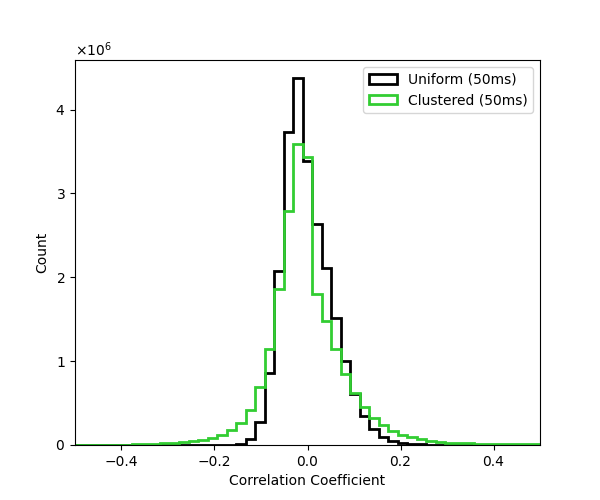
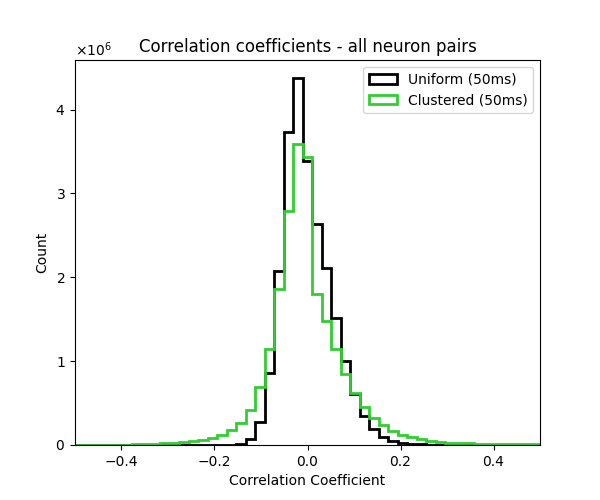
Updates from Overleaf

Changed region(s): [[0.24, 0.06, 0.81, 0.12]]

diff --git a/report/sections/discussion.tex b/report/sections/discussion.tex
@@ -4,4 +4,24 @@
 \section{Discussion}
 \label{sec:discussion}
 
-TODO
+The main goal of this project was to reproduce the paper by  Litwin-Kumar and Doiron (2012) \textcolor{red}{(add reference)}. Through replicating their results, we got our first experience in building a computational experimental model while working as a team. We acquired the key skills in doing neural network simulations using Brian2 and in converting the technical descriptions found in the original paper into actual code. In this process we also had to convert some key equations to a format more applicable to the Brian2 framework, since the paper Litwin-Kumar and Doiron (2012) \textcolor{red}{(add reference)} did not use Python.
+
+To understand how successful our replication of the original paper was, Figure~\ref{fig:our_results} and Figure~\ref{fig:original_results} give us a comprehensive comparison between our work and the paper.
+
+\begin{figure}[!htbp]
+    \centering
+    \includegraphics[width=\columnwidth]{report/figures/our_results.png}
+    \caption{The graphs combined together from our statistical analysis.}
+    \label{fig:our_results}
+\end{figure}
+
+\begin{figure}[!htbp]
+    \centering
+    \includegraphics[width=\columnwidth]{report/figures/original_results.jpg}
+    \caption{Statistical analysis results from the original paper \textcolor{red}{(add reference).}}
+    \label{fig:original_results}
+\end{figure}
+
+From this comparison, we see that most of the statistical analyses are very similar. The most fundamental difference is between Figure~\ref{fig:our_results} \textbf{(d)} and Figure~\ref{fig:original_results} \textbf{(d)}. From our experiment, the correlation coefficient figure displays a long heavy tail, with a significant bump around the 0.8 mark, while the original paper displayed a gradually diminishing positive tail, having almost no coefficients at 0.8.
+
+While it is hard to know exactly the firing dynamics of the network in the original paper, we can still make a guess at the possible ex

diff --git a/report/sections/results.tex b/report/sections/results.tex
@@ -103,7 +103,7 @@ that within-cluster neurons share these slow rate fluctuations.
 
 \begin{figure}[!htbp]
     \centering
-    \includegraphics[width=\columnwidth]{correlation_all_pairs}
+    \includegraphics[width=\columnwidth]{corr_all}
     \caption{Distribution of pairwise spike count correlations for all
     neuron pairs. Correlations remain centered near zero on average for
     both network types.}
@@ -112,7 +112,7 @@ that within-cluster neurons share these slow rate fluctuations.
 
 \begin{figure}[!htbp]
     \centering
-    \includegraphics[width=\columnwidth]{correlation_same_cluster}
+    \includegraphics[width=\columnwidth]{corr_same}
     \caption{Distribution of pairwise spike count correlations for
     within-cluster pairs only. The clustered network shows a heavy positive
     tail that increases with counting window size (50~ms vs.\ 100~ms).}